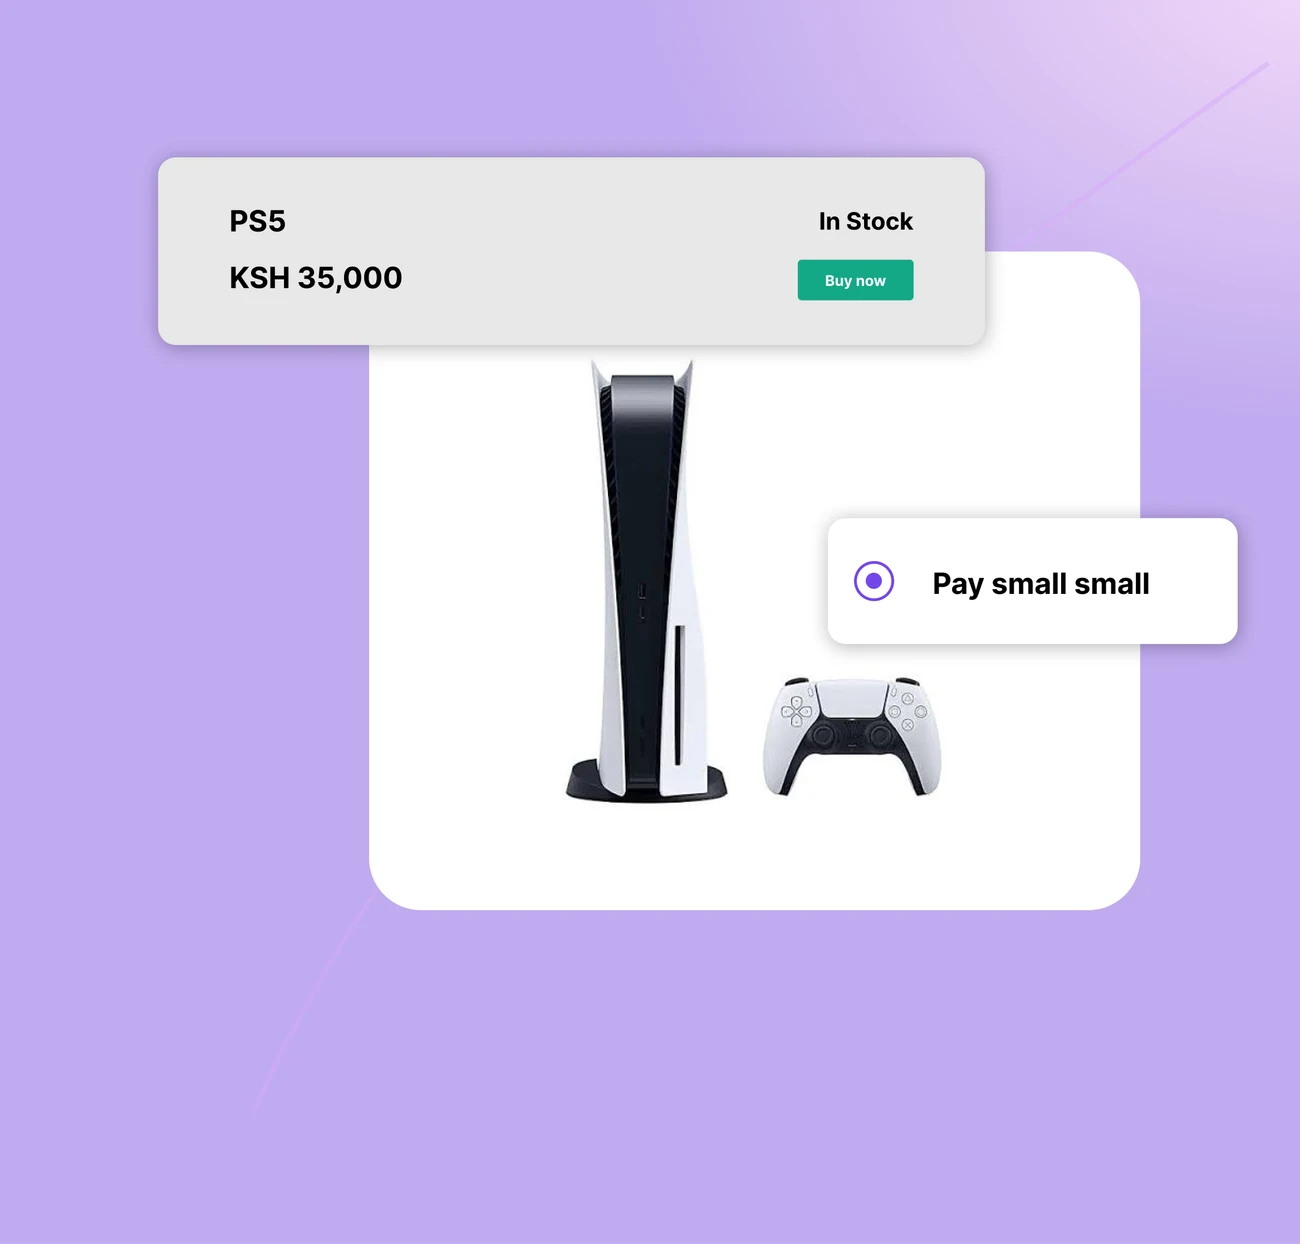
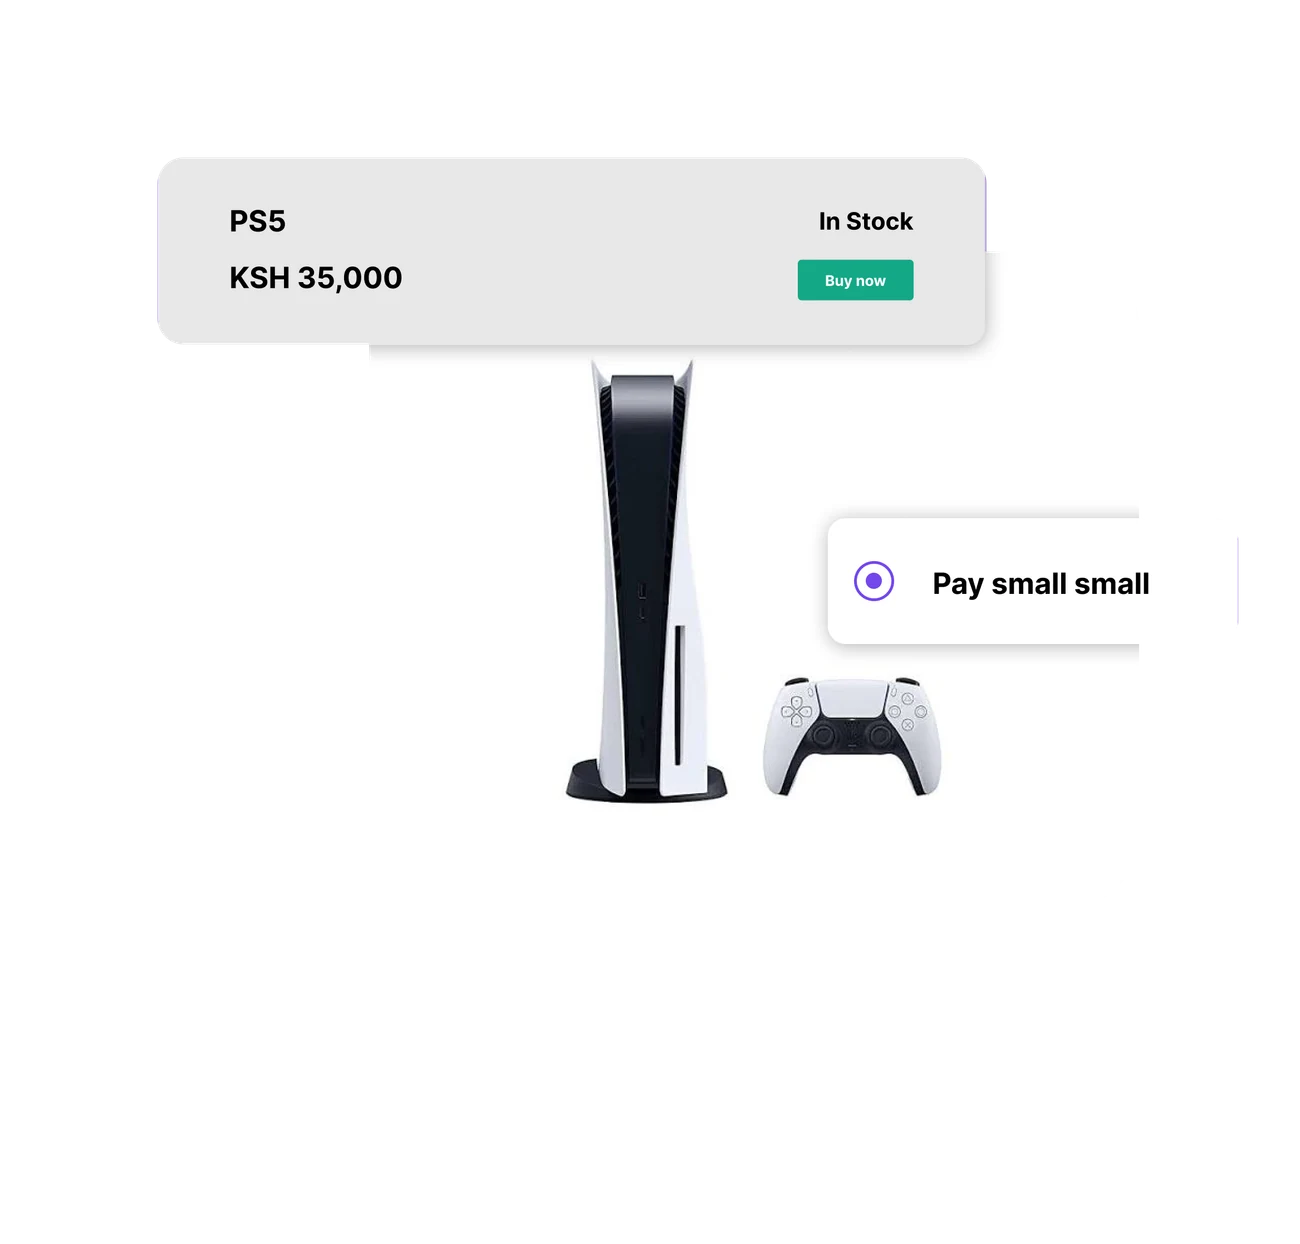
Developers Webhooks tab: the dashed line now draws from 316 to the laptop and Payment success appears once it arrives; pinned pictures cut out onto one flat shade (API keys, PS5)

diff --git a/apps/marketing-web/developers.html b/apps/marketing-web/developers.html
@@ -14,8 +14,8 @@
   <link rel="stylesheet" href="styles.css?v=77986a3b">
   <link rel="stylesheet" href="sections.css?v=373b85c0">
   <link rel="stylesheet" href="pay-pages.css?v=59429695">
-  <link rel="stylesheet" href="developers.css?v=3650bc23">
-  <link rel="stylesheet" href="linkflow.css?v=9f17bf07">
+  <link rel="stylesheet" href="developers.css?v=85405cd7">
+  <link rel="stylesheet" href="linkflow.css?v=803051d0">
   <link rel="stylesheet" href="mobile.css?v=26768ea6">
 </head>
 <body class="theme-pay theme-oc">
@@ -258,7 +258,7 @@
         </ol>
           <div class="pl-flow__stage">
             <div class="pl-flow__layer pl-flow__layer--1 is-cur">
-              <div class="pl-visual__box pl-visual__box--center"><div class="pl-cust pl-cust--dk"><img src="assets/Developers/api-keys.webp?v=819b180d" class="oc-art pl-slot" alt="The API keys page of the dashboard with an API key generated and a secret key" width="2000" height="817" loading="lazy" decoding="async"><!--dv-k1:start--><svg class="pl-cust__fx" viewBox="0 0 1000 408.7" aria-hidden="true" focusable="false"><g class="ka1"><rect x="754" y="242" width="102" height="32" rx="15" fill="rgba(116,85,240,.10)" stroke="#7455F0" stroke-width="3"/></g><g class="ka2"><g transform="scale(0.9)"><path d="M0 0 L0 38 L9.5 29.5 L16 44 L24 40.5 L17.5 27 L30 27 Z" fill="#111" stroke="#fff" stroke-width="3.2" stroke-linejoin="round"/></g></g><g class="ka3 dv-tc"><circle cx="805" cy="258" r="22" fill="none" stroke="#7455F0" stroke-width="4"/></g><g class="ka4"><rect x="637" y="146" width="310" height="39" rx="13" fill="rgba(116,85,240,.10)" stroke="#7455F0" stroke-width="3"/></g><g class="ka5 dv-tc"><circle cx="930" cy="166" r="16" fill="none" stroke="#7455F0" stroke-width="4"/></g><g class="ka6"><rect x="914" y="150" width="32" height="32" rx="9" fill="rgba(23,160,95,.10)" stroke="#17A05F" stroke-width="3"/></g><g class="ka7 dv-tc"><circle cx="672" cy="218" r="22" fill="none" stroke="#7455F0" stroke-width="4"/></g><g class="ka8"><rect x="637" y="200" width="70" height="36" rx="17" fill="rgba(23,160,95,.10)" stroke="#17A05F" stroke-width="3"/></g></svg><!--dv-k1:end--></div></div>
+              <div class="pl-visual__box pl-visual__box--center"><div class="pl-cust pl-cust--dk"><img src="assets/Developers/api-keys.webp?v=979662d4" class="oc-art pl-slot" alt="The API keys page of the dashboard with an API key generated and a secret key" width="2000" height="817" loading="lazy" decoding="async"><!--dv-k1:start--><svg class="pl-cust__fx" viewBox="0 0 1000 408.7" aria-hidden="true" focusable="false"><g class="ka1"><rect x="754" y="242" width="102" height="32" rx="15" fill="rgba(116,85,240,.10)" stroke="#7455F0" stroke-width="3"/></g><g class="ka2"><g transform="scale(0.9)"><path d="M0 0 L0 38 L9.5 29.5 L16 44 L24 40.5 L17.5 27 L30 27 Z" fill="#111" stroke="#fff" stroke-width="3.2" stroke-linejoin="round"/></g></g><g class="ka3 dv-tc"><circle cx="805" cy="258" r="22" fill="none" stroke="#7455F0" stroke-width="4"/></g><g class="ka4"><rect x="637" y="146" width="310" height="39" rx="13" fill="rgba(116,85,240,.10)" stroke="#7455F0" stroke-width="3"/></g><g class="ka5 dv-tc"><circle cx="930" cy="166" r="16" fill="none" stroke="#7455F0" stroke-width="4"/></g><g class="ka6"><rect x="914" y="150" width="32" height="32" rx="9" fill="rgba(23,160,95,.10)" stroke="#17A05F" stroke-width="3"/></g><g class="ka7 dv-tc"><circle cx="672" cy="218" r="22" fill="none" stroke="#7455F0" stroke-width="4"/></g><g class="ka8"><rect x="637" y="200" width="70" height="36" rx="17" fill="rgba(23,160,95,.10)" stroke="#17A05F" stroke-width="3"/></g></svg><!--dv-k1:end--></div></div>
             </div>
             <div class="pl-flow__layer pl-flow__layer--2">
               <div class="pl-visual__box pl-visual__box--center"><div class="pl-cust pl-cust--di"><img src="assets/Developers/step-integrate.webp?v=b8109c0a" class="oc-art pl-slot" alt="A user and 316 connected to a node.js editor with a create payment request" width="1800" height="863" loading="lazy" decoding="async"><!--dv-k2:start--><svg class="pl-cust__fx" viewBox="0 0 1000 479.2" aria-hidden="true" focusable="false"><g class="kb1 dv-tc"><circle cx="37" cy="211" r="38" fill="none" stroke="#7455F0" stroke-width="4"/></g><g class="kb2"><circle cx="0" cy="0" r="9" fill="#7455F0"/><circle cx="0" cy="0" r="16" fill="rgba(116,85,240,.25)"/></g><g class="kb3"><rect x="152" y="146" width="136" height="136" rx="67" fill="rgba(116,85,240,.10)" stroke="#7455F0" stroke-width="3"/></g><g class="kb4"><rect x="428" y="-4" width="576" height="52" rx="17" fill="rgba(116,85,240,.10)" stroke="#7455F0" stroke-width="3"/></g><g class="kb5"><rect x="494" y="58" width="348" height="296" rx="11" fill="rgba(116,85,240,.10)" stroke="#7455F0" stroke-width="3"/></g><g class="kb6"><rect x="502" y="394" width="168" height="32" rx="9" fill="rgba(23,160,95,.10)" stroke="#17A05F" stroke-width="3"/></g></svg><!--dv-k2:end--></div></div>
@@ -293,7 +293,7 @@
             <div class="dv-tabs__panes">
             <div class="dv-pane dv-pane--1"><div class="dv-pane__box"><img src="assets/Developers/tab-1.webp?v=45c0621e" class="oc-art pl-slot" alt="A node.js editor with a payment request body" width="1300" height="1244" loading="lazy" decoding="async"></div></div>
             <div class="dv-pane dv-pane--2"><div class="dv-pane__box"><img src="assets/Developers/tab-2.webp?v=68377491" class="oc-art pl-slot" alt="Three node.js windows: npm install 316-money, import Money and create a payment" width="1300" height="1244" loading="lazy" decoding="async"></div></div>
-            <div class="dv-pane dv-pane--3"><div class="dv-pane__box"><img src="assets/Developers/tab-3.webp?v=6d358591" class="oc-art pl-slot" alt="316 sending a webhook event to an application: Payment success" width="1300" height="1244" loading="lazy" decoding="async"></div></div>
+            <div class="dv-pane dv-pane--3"><div class="dv-pane__box"><!--wh:start--><svg class="wh-svg" viewBox="0 0 2335 2235" role="img" aria-label="316 sends a webhook event to an application: the dashed line reaches the laptop and Payment success appears" focusable="false"><defs><clipPath id="wh-h"><rect x="1262" y="1370" width="450" height="110"/></clipPath><clipPath id="wh-v"><rect x="1640" y="1060" width="80" height="420"/></clipPath></defs><circle cx="1686" cy="810" r="244" fill="#fff" stroke="#7557F0" stroke-width="9"/><image href="assets/Developers/wh-base.webp?v=22339847" x="0" y="0" width="2335" height="2235"/><g class="wh1"><g clip-path="url(#wh-h)"><image href="assets/Developers/wh-line.webp?v=602aa450" x="0" y="0" width="2335" height="2235"/></g></g><g class="wh2"><g clip-path="url(#wh-v)"><image href="assets/Developers/wh-line.webp?v=602aa450" x="0" y="0" width="2335" height="2235"/></g></g><g class="wh3 wh-tc"><circle cx="1686" cy="810" r="250" fill="none" stroke="#7557F0" stroke-width="10"/></g><g class="wh4"><image href="assets/Developers/wh-toast.webp?v=aebff00c" x="0" y="0" width="2335" height="2235"/></g></svg><!--wh:end--></div></div>
             <div class="dv-pane dv-pane--4"><div class="dv-pane__box"><img src="assets/Developers/tab-4.webp?v=ff157105" class="oc-art pl-slot" alt="The API reference page Create a payment with a request and a response example" width="1300" height="1244" loading="lazy" decoding="async"></div></div>
             </div>
           </div>

diff --git a/apps/marketing-web/pay-small-small.html b/apps/marketing-web/pay-small-small.html
@@ -15,7 +15,7 @@
   <link rel="stylesheet" href="sections.css?v=373b85c0">
   <link rel="stylesheet" href="pay-pages.css?v=59429695">
   <link rel="stylesheet" href="paysmall.css?v=69e830bc">
-  <link rel="stylesheet" href="linkflow.css?v=9f17bf07">
+  <link rel="stylesheet" href="linkflow.css?v=803051d0">
   <link rel="stylesheet" href="mobile.css?v=26768ea6">
 </head>
 <body class="theme-pay theme-oc">
@@ -246,7 +246,7 @@
           </div>
           <div class="pl-flow__stage">
             <div class="pl-flow__layer pl-flow__layer--1 is-cur">
-              <div class="pl-visual__box pl-visual__box--center"><div class="pl-cust pl-cust--pbt"><img src="assets/PaySmall/better.webp?v=55600f1c" class="oc-art pl-slot" alt="A PS5 listed at KSH 35,000 with a Pay small small option beside it" width="1300" height="1244" loading="lazy" decoding="async"><!--ps-a:start--><svg class="pl-cust__fx" viewBox="0 0 800 765.7" aria-hidden="true" focusable="false"><g class="pa1"><rect x="485" y="155" width="82" height="35" rx="9" fill="rgba(116,85,240,.10)" stroke="#17A05F" stroke-width="3"/></g><g class="pa2"><g transform="scale(0.9)"><path d="M0 0 L0 38 L9.5 29.5 L16 44 L24 40.5 L17.5 27 L30 27 Z" fill="#111" stroke="#fff" stroke-width="3.2" stroke-linejoin="round"/></g></g><g class="pa3 ps-tc"><circle cx="646" cy="358" r="22" fill="none" stroke="#7455F0" stroke-width="4"/></g><g class="pa4"><rect x="504" y="314" width="263" height="87" rx="18" fill="rgba(116,85,240,.10)" stroke="#7455F0" stroke-width="3"/></g></svg><!--ps-a:end--></div></div>
+              <div class="pl-visual__box pl-visual__box--center"><div class="pl-cust pl-cust--pbt"><img src="assets/PaySmall/better.webp?v=f1d4774a" class="oc-art pl-slot" alt="A PS5 listed at KSH 35,000 with a Pay small small option beside it" width="1300" height="1244" loading="lazy" decoding="async"><!--ps-a:start--><svg class="pl-cust__fx" viewBox="0 0 800 765.7" aria-hidden="true" focusable="false"><g class="pa1"><rect x="485" y="155" width="82" height="35" rx="9" fill="rgba(116,85,240,.10)" stroke="#17A05F" stroke-width="3"/></g><g class="pa2"><g transform="scale(0.9)"><path d="M0 0 L0 38 L9.5 29.5 L16 44 L24 40.5 L17.5 27 L30 27 Z" fill="#111" stroke="#fff" stroke-width="3.2" stroke-linejoin="round"/></g></g><g class="pa3 ps-tc"><circle cx="646" cy="358" r="22" fill="none" stroke="#7455F0" stroke-width="4"/></g><g class="pa4"><rect x="504" y="314" width="263" height="87" rx="18" fill="rgba(116,85,240,.10)" stroke="#7455F0" stroke-width="3"/></g></svg><!--ps-a:end--></div></div>
             </div>
             <div class="pl-flow__layer pl-flow__layer--2">
               <div class="pl-visual__box pl-visual__box--center"><div class="pl-cust pl-cust--ppl"><img src="assets/PaySmall/better-plan.webp?v=c7070fb7" class="oc-art pl-slot" alt="Product details for a black tshirt beside a phone checkout with a payment plan: today, after 30 days and after 60 days" width="1300" height="806" loading="lazy" decoding="async"><!--ps-b:start--><svg class="pl-cust__fx" viewBox="0 0 800 496.3" aria-hidden="true" focusable="false"><g class="pb1"><rect x="36" y="73" width="450" height="150" rx="10" fill="rgba(116,85,240,.10)" stroke="#7455F0" stroke-width="3"/></g><g class="pb2"><rect x="503" y="341" width="272" height="34" rx="10" fill="rgba(116,85,240,.10)" stroke="#7455F0" stroke-width="3"/></g><g class="pb3"><rect x="503" y="371" width="272" height="34" rx="10" fill="rgba(116,85,240,.10)" stroke="#7455F0" stroke-width="3"/></g><g class="pb4"><rect x="503" y="401" width="272" height="34" rx="10" fill="rgba(116,85,240,.10)" stroke="#7455F0" stroke-width="3"/></g><g class="pb5"><g transform="scale(0.9)"><path d="M0 0 L0 38 L9.5 29.5 L16 44 L24 40.5 L17.5 27 L30 27 Z" fill="#111" stroke="#fff" stroke-width="3.2" stroke-linejoin="round"/></g></g><g class="pb6 ps-tc"><circle cx="640" cy="484" r="22" fill="none" stroke="#7455F0" stroke-width="4"/></g><g class="pb7"><rect x="503" y="468" width="272" height="34" rx="10" fill="rgba(116,85,240,.10)" stroke="#17A05F" stroke-width="3"/></g></svg><!--ps-b:end--></div></div>

diff --git a/apps/marketing-web/developers.css b/apps/marketing-web/developers.css
@@ -1031,3 +1031,47 @@
 @keyframes dv-gone { to { opacity: 0; visibility: hidden; height: 0; } }
 @keyframes dv-spin { to { transform: rotate(360deg); } }
 @media (prefers-reduced-motion: reduce) { .dv-code.is-run .dv-run__json .dv-l, .dv-code.is-run .dv-run__status { animation: none; opacity: 1; } .dv-code.is-run .dv-run__wait { display: none; } .dv-code:not(.is-ran) .dv-run__btn::after { animation: none; } }
+
+/* @generated:wh (scratch generator: do not hand-edit) */
+.wh-svg { display: block; width: 100%; height: auto; }
+.wh-tc { transform-box: fill-box; transform-origin: center; }
+@keyframes wh1 {
+  0.000% { opacity: 1.000; clip-path: inset(0 46.00% 0 0); }
+  7.500% { opacity: 1.000; clip-path: inset(0 46.00% 0 0); animation-timing-function: cubic-bezier(.45,0,.2,1); }
+  20.000% { opacity: 1.000; clip-path: inset(0 26.00% 0 0); }
+  90.000% { opacity: 1.000; clip-path: inset(0 26.00% 0 0); }
+  96.250% { opacity: 0.000; clip-path: inset(0 26.00% 0 0); }
+  99.875% { opacity: 0.000; clip-path: inset(0 46.00% 0 0); }
+  100.000% { opacity: 1.000; clip-path: inset(0 46.00% 0 0); }
+}
+.wh1 { animation: wh1 8s linear infinite; }
+@keyframes wh2 {
+  0.000% { opacity: 1.000; clip-path: inset(66.00% 0 0 0); }
+  20.000% { opacity: 1.000; clip-path: inset(66.00% 0 0 0); animation-timing-function: cubic-bezier(.45,0,.2,1); }
+  32.500% { opacity: 1.000; clip-path: inset(47.00% 0 0 0); }
+  90.000% { opacity: 1.000; clip-path: inset(47.00% 0 0 0); }
+  96.250% { opacity: 0.000; clip-path: inset(47.00% 0 0 0); }
+  99.875% { opacity: 0.000; clip-path: inset(66.00% 0 0 0); }
+  100.000% { opacity: 1.000; clip-path: inset(66.00% 0 0 0); }
+}
+.wh2 { animation: wh2 8s linear infinite; }
+@keyframes wh3 {
+  0.000% { opacity: 0.000; transform: scale(0.200); }
+  33.125% { opacity: 0.000; transform: scale(0.200); }
+  33.375% { opacity: 0.750; transform: scale(0.200); animation-timing-function: ease-out; }
+  44.375% { opacity: 0.000; transform: scale(1.800); }
+  100.000% { opacity: 0.000; transform: scale(0.200); }
+}
+.wh3 { animation: wh3 8s linear infinite; }
+@keyframes wh4 {
+  0.000% { opacity: 0.000; transform: translate(0.00px, 14.00px); }
+  34.375% { opacity: 0.000; transform: translate(0.00px, 14.00px); animation-timing-function: cubic-bezier(.2,.7,.2,1); }
+  40.000% { opacity: 1.000; transform: translate(0.00px, 0.00px); }
+  90.000% { opacity: 1.000; transform: translate(0.00px, 0.00px); }
+  96.250% { opacity: 0.000; transform: translate(0.00px, 0.00px); }
+  99.875% { opacity: 0.000; transform: translate(0.00px, 14.00px); }
+  100.000% { opacity: 0.000; transform: translate(0.00px, 14.00px); }
+}
+.wh4 { animation: wh4 8s linear infinite; }
+@media (prefers-reduced-motion: reduce) { .wh-svg * { animation: none !important; } }
+/* @end wh */

diff --git a/tools/pages/developers.page.html b/tools/pages/developers.page.html
@@ -88,7 +88,7 @@
             <div class="dv-tabs__panes">
             <div class="dv-pane dv-pane--1"><div class="dv-pane__box">{{slot:Developers/tab-1 ratio="1.045/1" class="oc-art pl-slot" alt="A node.js editor with a payment request body"}}</div></div>
             <div class="dv-pane dv-pane--2"><div class="dv-pane__box">{{slot:Developers/tab-2 ratio="1.045/1" class="oc-art pl-slot" alt="Three node.js windows: npm install 316-money, import Money and create a payment"}}</div></div>
-            <div class="dv-pane dv-pane--3"><div class="dv-pane__box">{{slot:Developers/tab-3 ratio="1.045/1" class="oc-art pl-slot" alt="316 sending a webhook event to an application: Payment success"}}</div></div>
+            <div class="dv-pane dv-pane--3"><div class="dv-pane__box"><!--wh:start--><svg class="wh-svg" viewBox="0 0 2335 2235" role="img" aria-label="316 sends a webhook event to an application: the dashed line reaches the laptop and Payment success appears" focusable="false"><defs><clipPath id="wh-h"><rect x="1262" y="1370" width="450" height="110"/></clipPath><clipPath id="wh-v"><rect x="1640" y="1060" width="80" height="420"/></clipPath></defs><circle cx="1686" cy="810" r="244" fill="#fff" stroke="#7557F0" stroke-width="9"/><image href="assets/Developers/wh-base.webp" x="0" y="0" width="2335" height="2235"/><g class="wh1"><g clip-path="url(#wh-h)"><image href="assets/Developers/wh-line.webp" x="0" y="0" width="2335" height="2235"/></g></g><g class="wh2"><g clip-path="url(#wh-v)"><image href="assets/Developers/wh-line.webp" x="0" y="0" width="2335" height="2235"/></g></g><g class="wh3 wh-tc"><circle cx="1686" cy="810" r="250" fill="none" stroke="#7557F0" stroke-width="10"/></g><g class="wh4"><image href="assets/Developers/wh-toast.webp" x="0" y="0" width="2335" height="2235"/></g></svg><!--wh:end--></div></div>
             <div class="dv-pane dv-pane--4"><div class="dv-pane__box">{{slot:Developers/tab-4 ratio="1.045/1" class="oc-art pl-slot" alt="The API reference page Create a payment with a request and a response example"}}</div></div>
             </div>
           </div>

diff --git a/apps/marketing-web/linkflow.css b/apps/marketing-web/linkflow.css
@@ -210,6 +210,7 @@
   .pl-flow:not(.pl-flow--side).is-pin .pl-flow__layer .pl-visual__box--center > .pl-cust { top: 7%; height: 86%; }
 }
 
-/* Pay Small Small, Easier affordability: the picture is a full lilac panel, so it fills the whole stage and the stage shows one uniform shade */
-.pl-flow--side .pl-cust.pl-cust--pbt { top: 0; left: 0; width: 100%; height: 100%; transform: none; aspect-ratio: auto; }
-.pl-flow--side .pl-cust--pbt > img.pl-slot { object-fit: cover; }
+/* one flat shade behind every picture of a pinned section: the pictures are cut out (transparent), so no second shade or inner panel shows */
+.pl-flow:not(.gc-flow) .pl-visual__box { background: #E8E0F9; }
+.pl-flow--side .pl-visual__box { background: #C3AAF1; }
+.pl-flow--side .pl-cust > img.pl-slot, .pl-cust--dk > img.pl-slot { filter: drop-shadow(0 0.7rem 1.4rem rgba(60, 30, 120, .2)); }

diff --git a/apps/marketing-web/store-gift-cards.html b/apps/marketing-web/store-gift-cards.html
@@ -13,7 +13,7 @@
   <link rel="stylesheet" href="styles.css?v=77986a3b">
   <link rel="stylesheet" href="sections.css?v=373b85c0">
   <link rel="stylesheet" href="pay-pages.css?v=59429695">
-  <link rel="stylesheet" href="linkflow.css?v=9f17bf07">
+  <link rel="stylesheet" href="linkflow.css?v=803051d0">
   <link rel="stylesheet" href="giftcards.css?v=75e5691d">
   <link rel="stylesheet" href="mobile.css?v=26768ea6">
 </head>

diff --git a/apps/marketing-web/invoicing.html b/apps/marketing-web/invoicing.html
@@ -15,7 +15,7 @@
   <link rel="stylesheet" href="sections.css?v=373b85c0">
   <link rel="stylesheet" href="pay-pages.css?v=59429695">
   <link rel="stylesheet" href="invoicing.css?v=35be7747">
-  <link rel="stylesheet" href="linkflow.css?v=9f17bf07">
+  <link rel="stylesheet" href="linkflow.css?v=803051d0">
   <link rel="stylesheet" href="mobile.css?v=26768ea6">
 </head>
 <body class="theme-pay theme-oc">

diff --git a/apps/marketing-web/payment-links.html b/apps/marketing-web/payment-links.html
@@ -15,7 +15,7 @@
   <link rel="stylesheet" href="sections.css?v=373b85c0">
   <link rel="stylesheet" href="pay-pages.css?v=59429695">
   <link rel="stylesheet" href="links.css?v=f593ea5f">
-  <link rel="stylesheet" href="linkflow.css?v=9f17bf07">
+  <link rel="stylesheet" href="linkflow.css?v=803051d0">
   <link rel="stylesheet" href="mobile.css?v=26768ea6">
 </head>
 <body class="theme-pay theme-oc">
